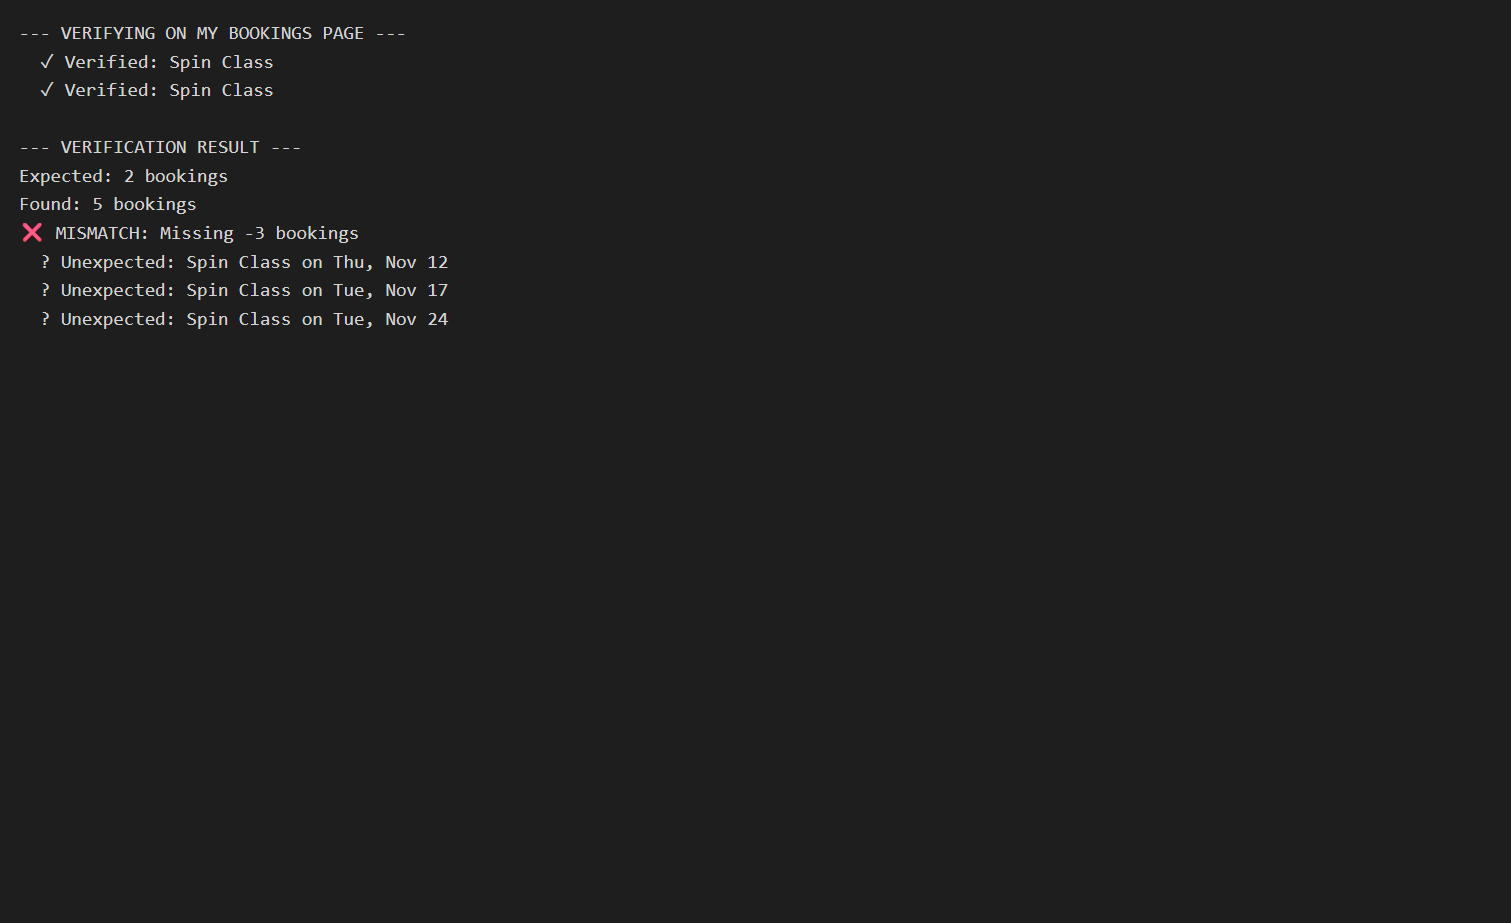
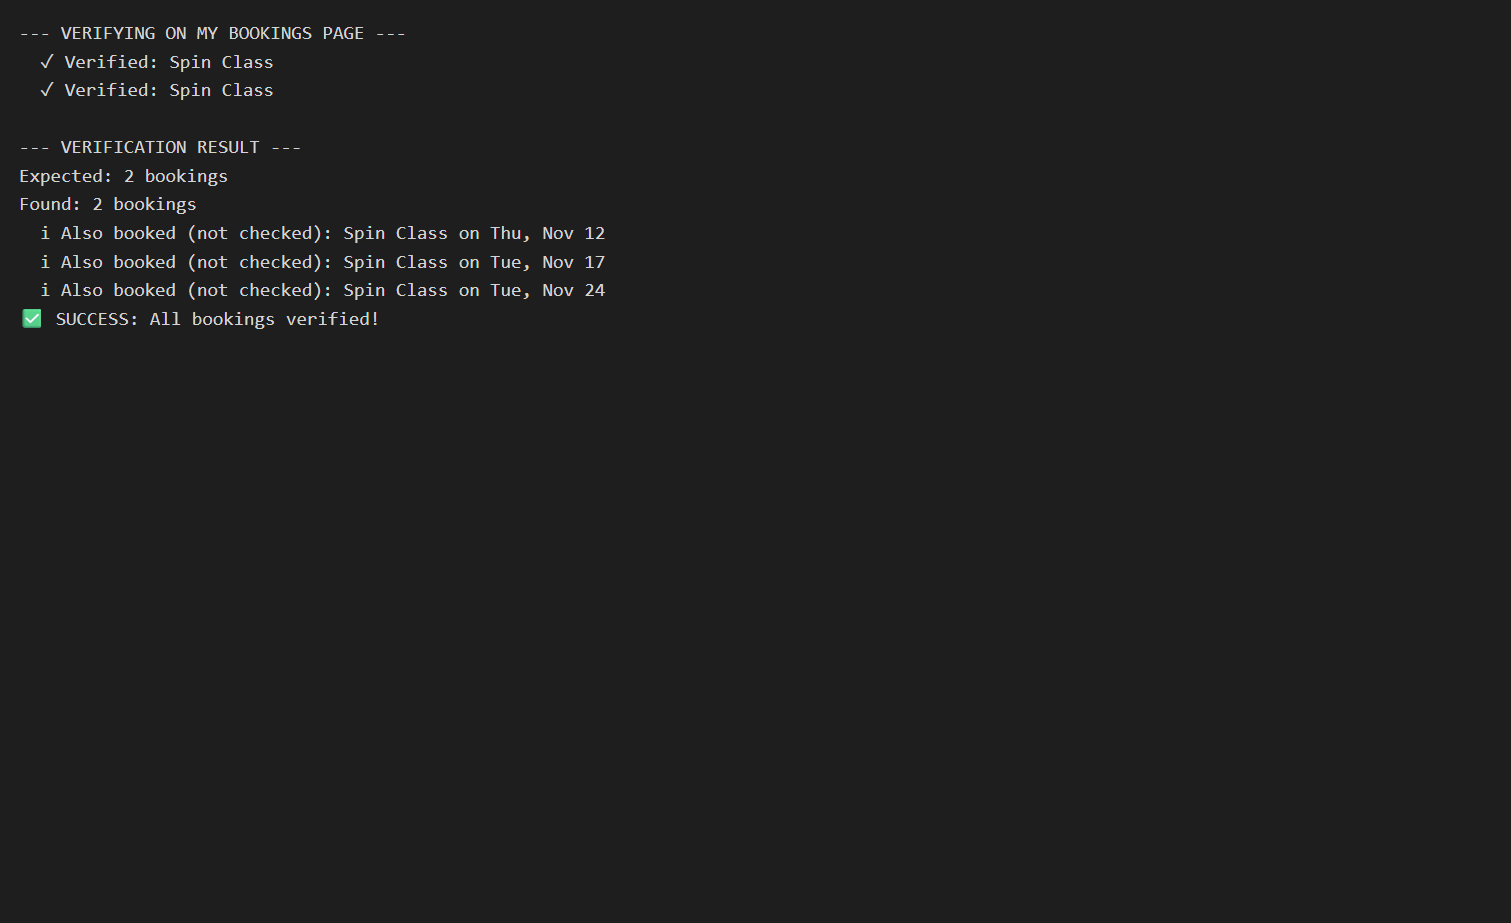
Add step 8 screenshot after the verification fix (MIL-009)

Changed region(s): [[0.0, 0.2427, 0.4044, 0.364]]

diff --git a/README.md b/README.md
@@ -115,7 +115,7 @@ docker run --rm snack-and-lift
 
 ## 📸 Lecture steps and screenshots
 
-Each step has a wiki page that explains what it teaches, in [English](https://git.tirsystem.com/Tirsvad-Udemy-100-days-of-code/049-snack-and-lift/wiki/Home), [Dansk](https://git.tirsystem.com/Tirsvad-Udemy-100-days-of-code/049-snack-and-lift/wiki/Home-da) and [Bahasa Melayu](https://git.tirsystem.com/Tirsvad-Udemy-100-days-of-code/049-snack-and-lift/wiki/Home-ms). All nine images are screenshots of a real run against the live site. The step 8 image was taken before a fix: it ends in MISMATCH because the My Bookings page also lists bookings from earlier runs. The check now compares only the days of the run, so the same run ends in SUCCESS.
+Each step has a wiki page that explains what it teaches, in [English](https://git.tirsystem.com/Tirsvad-Udemy-100-days-of-code/049-snack-and-lift/wiki/Home), [Dansk](https://git.tirsystem.com/Tirsvad-Udemy-100-days-of-code/049-snack-and-lift/wiki/Home-da) and [Bahasa Melayu](https://git.tirsystem.com/Tirsvad-Udemy-100-days-of-code/049-snack-and-lift/wiki/Home-ms). All nine images are screenshots of a real run against the live site. Step 8 ends in SUCCESS; the My Bookings page also lists bookings from earlier runs, which the check prints as "Also booked (not checked)".
 
 | Step | Wiki page | Screenshot |
 | --- | --- | --- |

diff --git a/docs/wiki/Step-8-ms.md b/docs/wiki/Step-8-ms.md
@@ -14,6 +14,6 @@ Anda belajar bahawa tarikh ialah punca pepijat biasa: kawalan admin laman "advan
 
 ![Langkah 8: Jaminan kualiti dengan perjalanan masa](https://git.tirsystem.com/Tirsvad-Udemy-100-days-of-code/049-snack-and-lift/raw/branch/main/docs/images/step-8.png)
 
-> Imej ini diambil sebelum pembaikan: halaman My Bookings turut menyenaraikan tempahan daripada larian terdahulu di luar 7 hari jadual seterusnya, dan semakan berakhir dengan MISMATCH. Semakan kini hanya membandingkan hari larian dan mencetak tempahan lain sebagai "Also booked (not checked)", jadi larian yang sama berakhir dengan SUCCESS.
+> Halaman My Bookings turut menyenaraikan tempahan daripada larian terdahulu di luar hari larian ini. Semakan hanya membandingkan hari larian dan mencetak yang lain sebagai "Also booked (not checked)".
 
 [Sebelumnya: 7](Step-7-ms) · [Utama](Home-ms) · [Seterusnya: 9](Step-9-ms)

diff --git a/docs/wiki/Step-8-da.md b/docs/wiki/Step-8-da.md
@@ -14,6 +14,6 @@ Du lærer at datoer er den almindelige fejlkilde: sidens admin-knap "advance 3 d
 
 ![Trin 8: Kvalitetssikring med tidsrejse](https://git.tirsystem.com/Tirsvad-Udemy-100-days-of-code/049-snack-and-lift/raw/branch/main/docs/images/step-8.png)
 
-> Dette billede er taget før en rettelse: siden My Bookings viser også bookinger fra tidligere kørsler uden for tidsplanens næste 7 dage, og kontrollen endte så i MISMATCH. Kontrollen sammenligner nu kun kørslens dage og skriver de øvrige bookinger som "Also booked (not checked)", så samme kørsel ender i SUCCESS.
+> Siden My Bookings viser også bookinger fra tidligere kørsler uden for denne kørsels dage. Kontrollen sammenligner kun kørslens dage og skriver de øvrige som "Also booked (not checked)".
 
 [Forrige: 7](Step-7-da) · [Forside](Home-da) · [Næste: 9](Step-9-da)

diff --git a/docs/wiki/Step-8.md b/docs/wiki/Step-8.md
@@ -14,6 +14,6 @@ You learn that dates are the usual bug: the site's admin control "advance 3 days
 
 ![Step 8: Time travel quality assurance](https://git.tirsystem.com/Tirsvad-Udemy-100-days-of-code/049-snack-and-lift/raw/branch/main/docs/images/step-8.png)
 
-> This image was taken before a fix: the My Bookings page also lists bookings from earlier runs outside the schedule's next 7 days, and the check then ended in MISMATCH. The check now compares only the days of the run and prints the other bookings as "Also booked (not checked)", so the same run ends in SUCCESS.
+> The My Bookings page also lists bookings from earlier runs outside the days of this run. The check compares only the days of the run and prints the others as "Also booked (not checked)".
 
 [Previous: 7](Step-7) · [Home](Home) · [Next: 9](Step-9)
